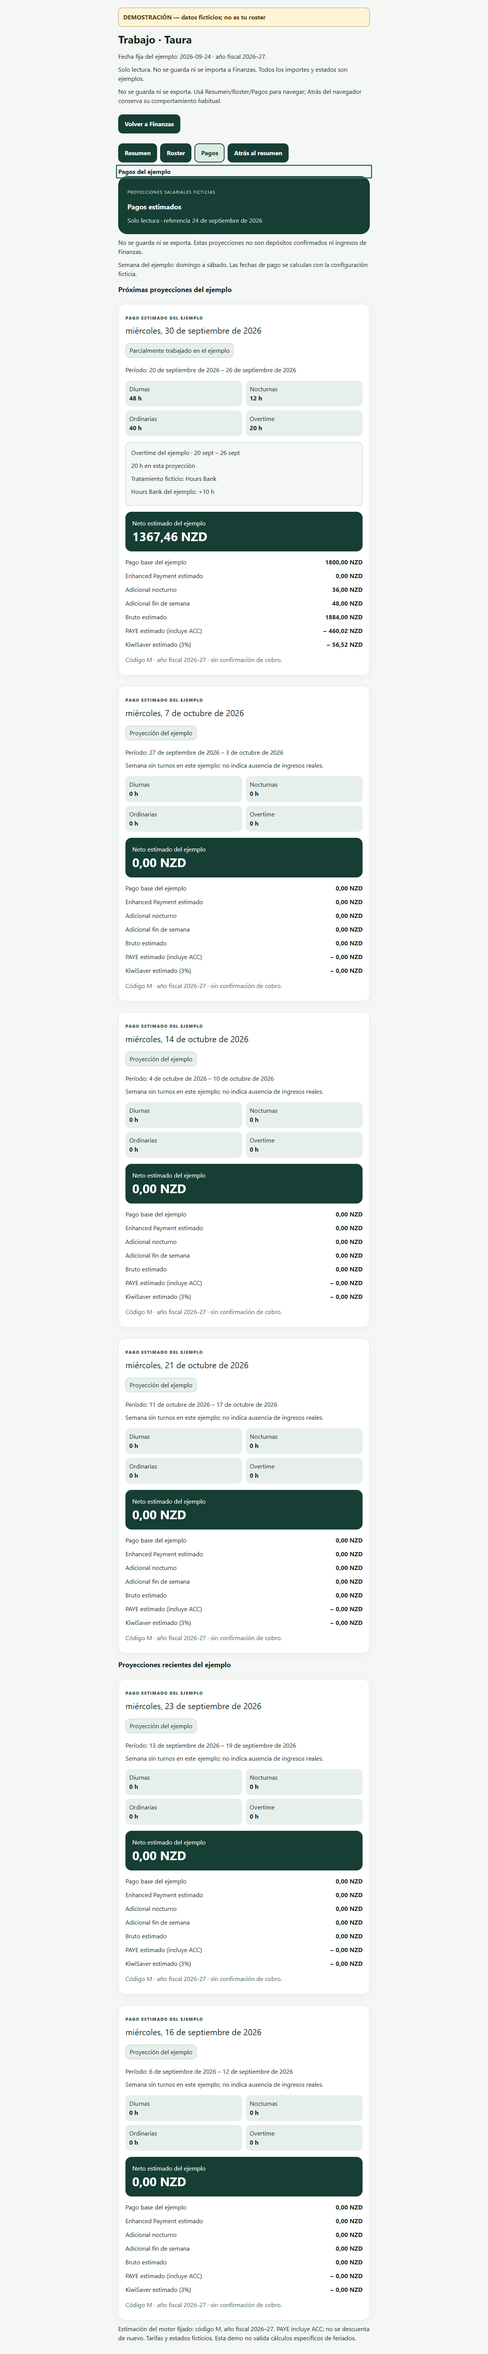
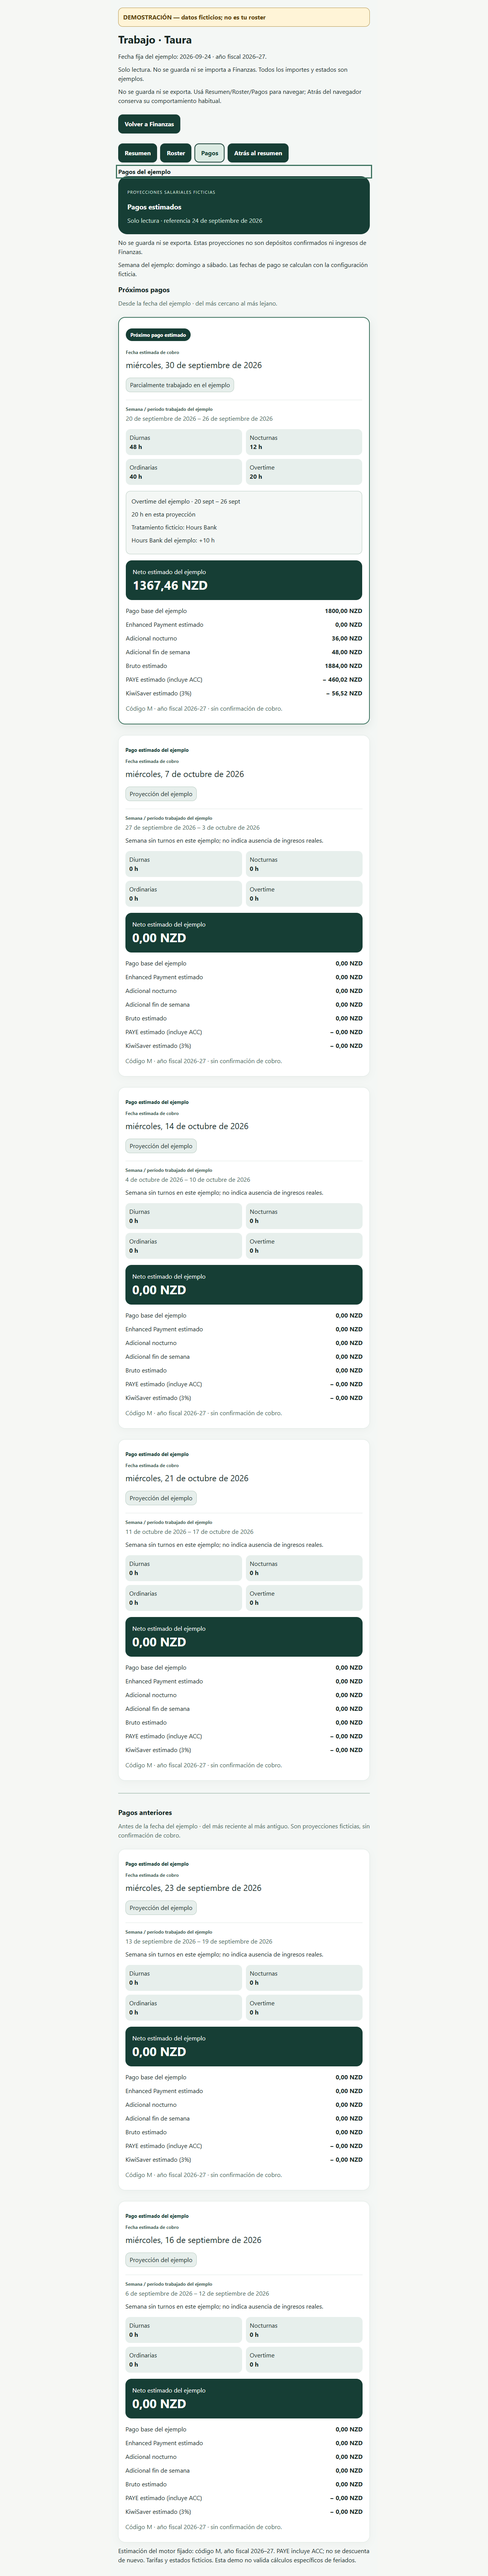
Clarify payment dates and highlight next estimated payment

diff --git a/src/modules/work/pages/PaymentsPage.tsx b/src/modules/work/pages/PaymentsPage.tsx
@@ -32,23 +32,26 @@ export function PaymentsPage({shifts,settings,overtimePreferences,referenceDate}
     <p>No se guarda ni se exporta. Estas proyecciones no son depósitos confirmados ni ingresos de Finanzas.</p>
     <p>Semana del ejemplo: domingo a sábado. Las fechas de pago se calculan con la configuración ficticia.</p>
     <section aria-labelledby="upcoming-example-payments">
-      <h3 id="upcoming-example-payments">Próximas proyecciones del ejemplo</h3>
-      {upcoming.length?<div className={styles.paymentsList}>{upcoming.map(period=><PaymentCard key={period.id} period={period} kiwiSaverRate={settings.kiwisaver_rate}/>)}</div>:<p>Sin próximas proyecciones en este ejemplo.</p>}
+      <h3 id="upcoming-example-payments">Próximos pagos</h3>
+      <p className={styles.muted}>Desde la fecha del ejemplo · del más cercano al más lejano.</p>
+      {upcoming.length?<div className={styles.paymentsList}>{upcoming.map((period,index)=><PaymentCard key={period.id} featured={index===0} period={period} kiwiSaverRate={settings.kiwisaver_rate}/>)}</div>:<p>Sin próximas proyecciones en este ejemplo.</p>}
     </section>
-    <section aria-labelledby="recent-example-payments">
-      <h3 id="recent-example-payments">Proyecciones recientes del ejemplo</h3>
+    <section className={styles.previousPayments} aria-labelledby="recent-example-payments">
+      <h3 id="recent-example-payments">Pagos anteriores</h3>
+      <p className={styles.muted}>Antes de la fecha del ejemplo · del más reciente al más antiguo. Son proyecciones ficticias, sin confirmación de cobro.</p>
       {recent.length?<div className={styles.paymentsList}>{recent.map(period=><PaymentCard key={period.id} period={period} kiwiSaverRate={settings.kiwisaver_rate}/>)}</div>:<p>Sin proyecciones recientes en este ejemplo.</p>}
     </section>
     <p>Estimación del motor fijado: código M, año fiscal 2026–27. PAYE incluye ACC; no se descuenta de nuevo. Tarifas y estados ficticios. Esta demo no valida cálculos específicos de feriados.</p>
   </>;
 }
 
-function PaymentCard({period,kiwiSaverRate}:{period:PayPeriodProjection;kiwiSaverRate:number}) {
-  return <article className={`${styles.card} ${styles.paymentCard}`} aria-labelledby={`example-payment-${period.id}`} data-payment={period.id} data-pay-date={period.payDate}>
-    <p className={styles.eyebrow}>PAGO ESTIMADO DEL EJEMPLO</p>
+function PaymentCard({period,kiwiSaverRate,featured=false}:{period:PayPeriodProjection;kiwiSaverRate:number;featured?:boolean}) {
+  return <article className={`${styles.card} ${styles.paymentCard} ${featured?styles.featuredPayment:''}`} aria-labelledby={`example-payment-${period.id}`} data-payment={period.id} data-pay-date={period.payDate}>
+    <p className={styles.paymentEyebrow}>{featured?'Próximo pago estimado':'Pago estimado del ejemplo'}</p>
+    <p className={styles.paymentDateLabel}>Fecha estimada de cobro</p>
     <h4 id={`example-payment-${period.id}`}>{formatDate(period.payDate,{weekday:'long',day:'numeric',month:'long',year:'numeric'})}</h4>
     <p className={styles.paymentStatus}>{statusLabels[period.status]}</p>
-    <p>Período: {formatDate(period.startsOn,{dateStyle:'long'})} – {formatDate(period.endsOn,{dateStyle:'long'})}</p>
+    <p className={styles.workedPeriod}><span>Semana / período trabajado del ejemplo</span>{formatDate(period.startsOn,{dateStyle:'long'})} – {formatDate(period.endsOn,{dateStyle:'long'})}</p>
     {period.shiftCount===0?<p>Semana sin turnos en este ejemplo; no indica ausencia de ingresos reales.</p>:null}
     <dl className={styles.paymentHours}>
       <div><dt>Diurnas</dt><dd>{period.dayHours} h</dd></div>

diff --git a/src/modules/work/work-demo.module.css b/src/modules/work/work-demo.module.css
@@ -46,6 +46,13 @@
 .workDemo h3[tabindex] {scroll-margin-top:110px}
 .paymentsList {display:grid;gap:14px}
 .paymentCard {min-width:0}
+.featuredPayment {border:2px solid #3c725e;box-shadow:0 8px 24px #23413818}
+.paymentEyebrow {font-size:13px;font-weight:750;color:#173e35}
+.featuredPayment .paymentEyebrow {display:inline-block;background:#173e35;color:white;border-radius:20px;padding:7px 12px}
+.paymentDateLabel {font-size:12px;color:#435e55;font-weight:700;margin-bottom:0}
+.workedPeriod {border-top:1px solid #dfe8e4;padding-top:14px;color:#435e55}
+.workedPeriod span {display:block;font-size:12px;font-weight:700;margin-bottom:4px}
+.previousPayments {margin-top:32px;padding-top:20px;border-top:2px solid #bacdc3}
 .paymentCard h4 {font-size:22px;line-height:1.35;margin:8px 0}
 .paymentCard h5 {font-size:16px;margin:0}
 .paymentStatus {display:inline-block;border:1px solid #bacdc3;border-radius:12px;padding:6px 10px;background:#e7efec}

diff --git a/docs/validation/arch-01b2-2b/README.md b/docs/validation/arch-01b2-2b/README.md
@@ -1,5 +1,11 @@
 # ARCH-01B2.2b — Pagos sintéticos de solo lectura
 
+## Actualización visual del PR #14
+
+Aplicado el comentario `6872824228` por solicitud directa del director, sobre head `9cf7c0a273b8273e1c66dd5e553a778047adfa24`, en la misma rama. Se destaca una única tarjeta «Próximo pago estimado» mediante etiqueta, borde y sombra; «Próximos pagos» y «Pagos anteriores» quedan separados por encabezados, explicación del orden y divisor. Se mantienen los anteriores visibles para conservar lectura y acceso directo sin añadir controles plegables. Cada tarjeta diferencia «Fecha estimada de cobro» de «Semana / período trabajado del ejemplo».
+
+Sin cambios en selección, orden ni cálculo: `30/09, 07/10, 14/10, 21/10` y después `23/09, 16/09`, todas de 2026. Nuevas aserciones verifican las seis fechas en orden exacto, cuatro próximas/dos anteriores, una única etiqueta destacada y las seis parejas de rótulos; la UI comprueba además regiones semánticas a 360/390/1280. Se regeneraron logs/capturas y repitieron npm test, paridad independiente, typecheck, build, UI/foco/scroll/efectos y regresiones pagos/planificación. Importes y bank permanecen idénticos. Revisión visual móvil y escritorio de las capturas nuevas; mismos límites manuales detallados debajo. No se modifican Roster, WorkDemo, fixtures, motores ni CSS global. Sin merge; requiere nueva validación visual del director.
+
 14/11/2026, Pacific/Auckland. Implementación de Taura #28, conforme a la orden de continuación 6872480974 y la petición directa del director. Rama y PR separados, SIN MERGE. PAY-01 #29, feriados, edición, datos reales y refinamiento visual del calendario quedan fuera del alcance.
 
 ## Base, fuente y alcance
